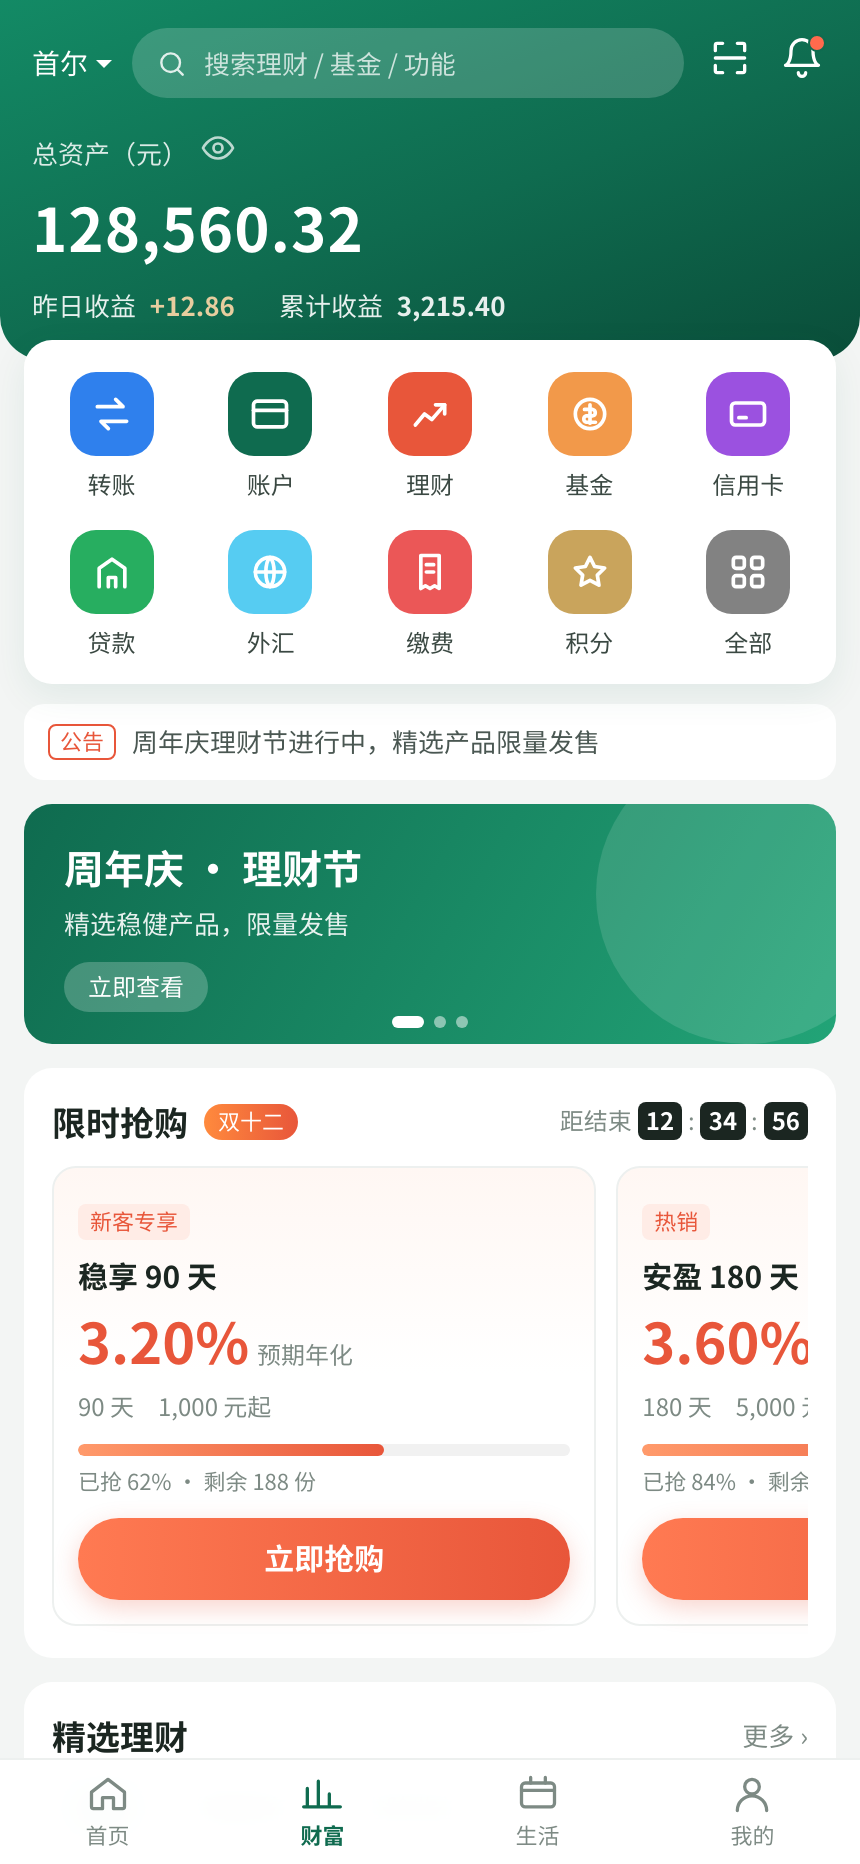
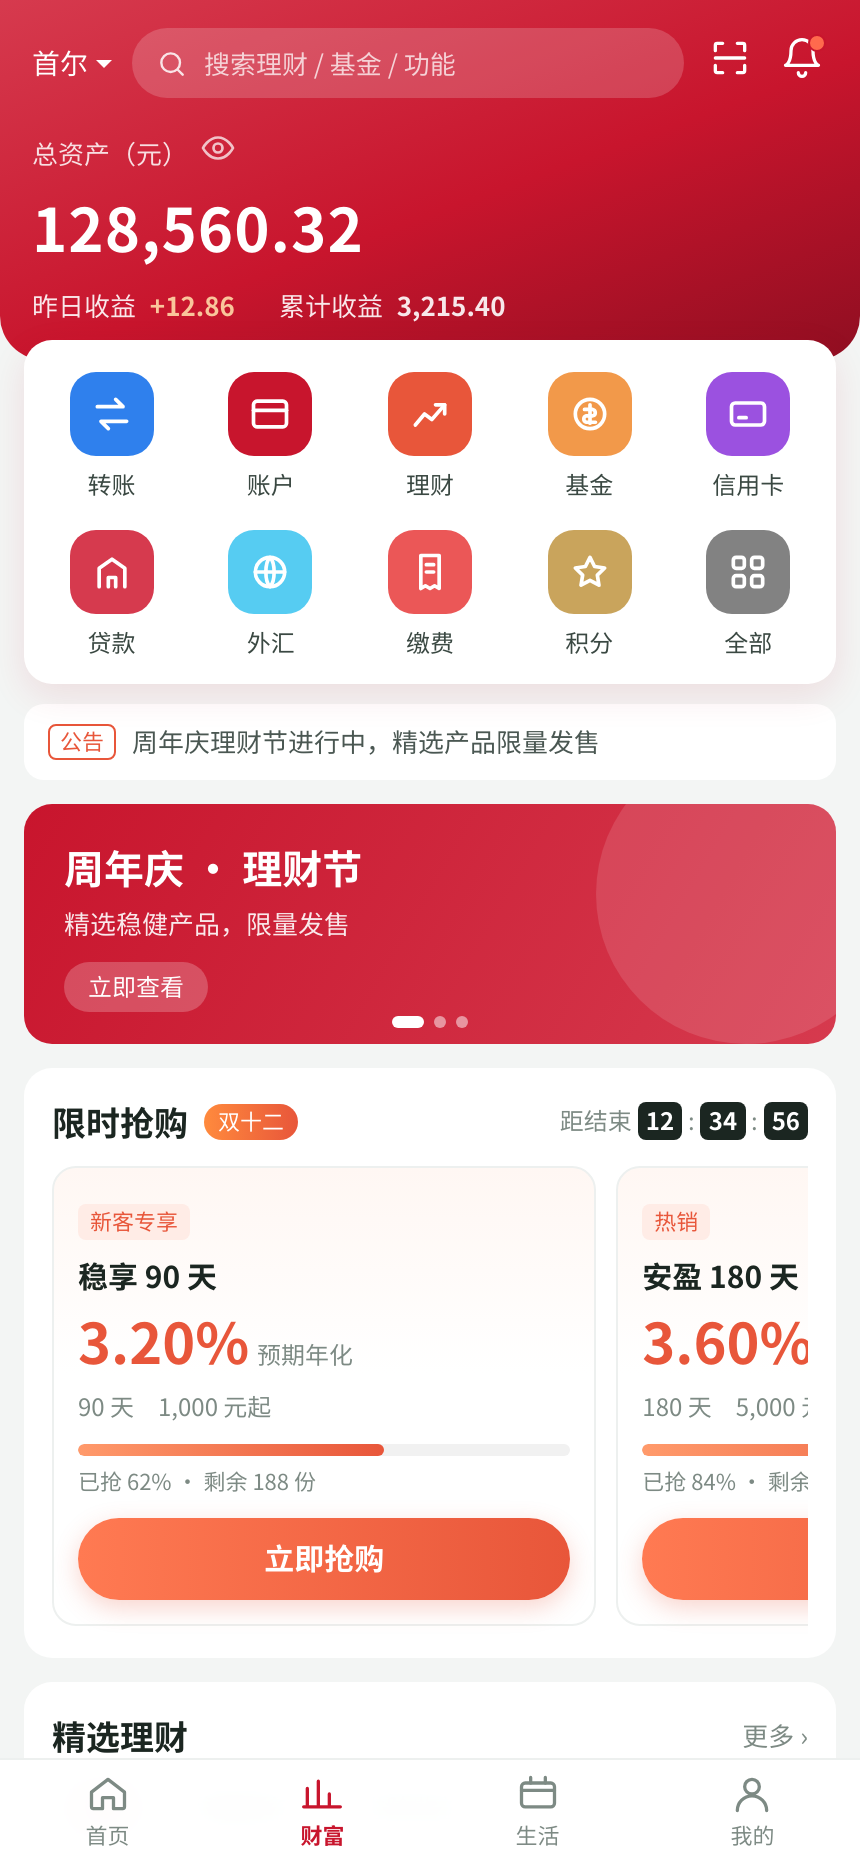
将绿色主题改为红色（#c8152d） (#7)
主色改为银行红 #c8152d，配浅红 #d63a4e 与深红 #8f0e21，
同步更新顶部渐变、金刚区图标、轮播、页签高亮等绿色元素。

diff --git a/style.css b/style.css
@@ -1,9 +1,9 @@
 /* 云杉银行 · 财富频道（虚构演示页面）
    颜色都在 :root 里，改颜色只需要改这里 */
 :root {
-  --brand: #0f6b4f;
-  --brand-2: #138a65;
-  --brand-dark: #0a4d39;
+  --brand: #c8152d;
+  --brand-2: #d63a4e;
+  --brand-dark: #8f0e21;
   --accent: #e8563a;        /* 收益率、抢购按钮 */
   --gold: #c9a45c;
   --bg: #f3f5f4;
@@ -17,7 +17,7 @@
 html, body { margin: 0; }
 body {
   font-family: -apple-system, "PingFang SC", "Microsoft YaHei", "Noto Sans CJK SC", system-ui, sans-serif;
-  color: var(--text); background: #dfe5e2;
+  color: var(--text); background: #e7e0e2;
 }
 button, input { font: inherit; color: inherit; }
 button { cursor: pointer; border: 0; background: none; }
@@ -52,7 +52,7 @@ svg { width: 22px; height: 22px; fill: none; stroke: currentColor; stroke-width:
 main { padding: 0 12px; }
 
 /* 金刚区 */
-.grid { display: grid; grid-template-columns: repeat(5, 1fr); gap: 14px 4px; background: var(--card); border-radius: var(--radius); padding: 16px 6px 12px; margin-top: -0px; transform: translateY(-10px); box-shadow: 0 6px 18px rgba(15,107,79,.08); }
+.grid { display: grid; grid-template-columns: repeat(5, 1fr); gap: 14px 4px; background: var(--card); border-radius: var(--radius); padding: 16px 6px 12px; margin-top: -0px; transform: translateY(-10px); box-shadow: 0 6px 18px rgba(200,21,45,.10); }
 .grid a { display: flex; flex-direction: column; align-items: center; gap: 6px; font-size: 12px; color: #3a4842; }
 .grid .ic { width: 42px; height: 42px; border-radius: 13px; display: grid; place-items: center; color: #fff; }
 .grid .ic svg { width: 22px; height: 22px; stroke-width: 2; }
@@ -102,7 +102,7 @@ main { padding: 0 12px; }
 /* 列表 */
 .tabs { display: flex; gap: 8px; margin-bottom: 4px; }
 .tabs button { font-size: 13px; padding: 4px 12px; border-radius: 99px; background: #f2f4f3; color: var(--muted); }
-.tabs button.on { background: #e4f2ec; color: var(--brand); font-weight: 600; }
+.tabs button.on { background: #fbe9ec; color: var(--brand); font-weight: 600; }
 .list { list-style: none; margin: 0; padding: 0; }
 .list li { display: flex; align-items: center; gap: 12px; padding: 14px 0; border-bottom: 1px solid var(--line); }
 .list li:last-child { border-bottom: 0; }
@@ -112,7 +112,7 @@ main { padding: 0 12px; }
 .list .m { flex: 1; min-width: 0; }
 .list .m h5 { margin: 0 0 5px; font-size: 15px; font-weight: 600; }
 .list .m p { margin: 0; font-size: 12px; color: var(--muted); display: flex; gap: 6px; flex-wrap: wrap; }
-.list .m em { font-style: normal; font-size: 11px; color: var(--brand); background: #e9f5f0; border-radius: 4px; padding: 0 5px; }
+.list .m em { font-style: normal; font-size: 11px; color: var(--brand); background: #fbe9ec; border-radius: 4px; padding: 0 5px; }
 .list .go { font-size: 13px; color: var(--brand); border: 1px solid var(--brand); border-radius: 99px; padding: 3px 12px; flex: none; }
 
 .risk { text-align: center; font-size: 11px; color: var(--muted); line-height: 1.7; margin: 16px 8px 10px; }

diff --git a/app.js b/app.js
@@ -3,11 +3,11 @@
 // ---------- 数据 ----------
 const shortcuts = [
   { name: "转账", color: "#2f80ed", icon: '<path d="M4 8h14l-4-4M20 16H6l4 4"/>' },
-  { name: "账户", color: "#0f6b4f", icon: '<rect x="3" y="5" width="18" height="14" rx="2"/><path d="M3 10h18"/>' },
+  { name: "账户", color: "#c8152d", icon: '<rect x="3" y="5" width="18" height="14" rx="2"/><path d="M3 10h18"/>' },
   { name: "理财", color: "#e8563a", icon: '<path d="M4 18 9 12l4 3 7-8"/><path d="M15 7h5v5"/>' },
   { name: "基金", color: "#f2994a", icon: '<circle cx="12" cy="12" r="8"/><path d="M12 7v10M9 9.5h4.5a1.8 1.8 0 0 1 0 3.5H10a1.8 1.8 0 0 0 0 3.5H15"/>' },
   { name: "信用卡", color: "#9b51e0", icon: '<rect x="3" y="6" width="18" height="12" rx="2"/><path d="M7 14h4"/>' },
-  { name: "贷款", color: "#27ae60", icon: '<path d="M5 20V10l7-5 7 5v10"/><path d="M10 20v-5h4v5"/>' },
+  { name: "贷款", color: "#d63a4e", icon: '<path d="M5 20V10l7-5 7 5v10"/><path d="M10 20v-5h4v5"/>' },
   { name: "外汇", color: "#56ccf2", icon: '<circle cx="12" cy="12" r="8"/><path d="M4 12h16M12 4c3 3 3 13 0 16M12 4c-3 3-3 13 0 16"/>' },
   { name: "缴费", color: "#eb5757", icon: '<path d="M7 3h10v18l-2.5-1.5L12 21l-2.5-1.5L7 21z"/><path d="M10 8h4M10 12h4"/>' },
   { name: "积分", color: "#c9a45c", icon: '<path d="m12 4 2.5 5 5.5.8-4 3.9.9 5.5L12 16.6 7.1 19.2l.9-5.5-4-3.9 5.5-.8z"/>' },
@@ -21,7 +21,7 @@ const notices = [
 ];
 
 const slides = [
-  { title: "周年庆 · 理财节", text: "精选稳健产品，限量发售", cta: "立即查看", bg: "linear-gradient(120deg,#0f6b4f,#22a477)" },
+  { title: "周年庆 · 理财节", text: "精选稳健产品，限量发售", cta: "立即查看", bg: "linear-gradient(120deg,#c8152d,#d63a4e)" },
   { title: "新客专享 3.20%", text: "首次购买稳享 90 天，1000 元起", cta: "去领取", bg: "linear-gradient(120deg,#e8563a,#ff9a6b)" },
   { title: "外汇兑换 0 手续费", text: "韩元、人民币、美元实时汇率", cta: "去兑换", bg: "linear-gradient(120deg,#2f80ed,#56ccf2)" },
 ];

diff --git a/index.html b/index.html
@@ -3,7 +3,7 @@
 <head>
   <meta charset="utf-8">
   <meta name="viewport" content="width=device-width, initial-scale=1, viewport-fit=cover">
-  <meta name="theme-color" content="#0f6b4f">
+  <meta name="theme-color" content="#c8152d">
   <title>云杉银行 · 财富</title>
   <link rel="stylesheet" href="style.css">
 </head>
